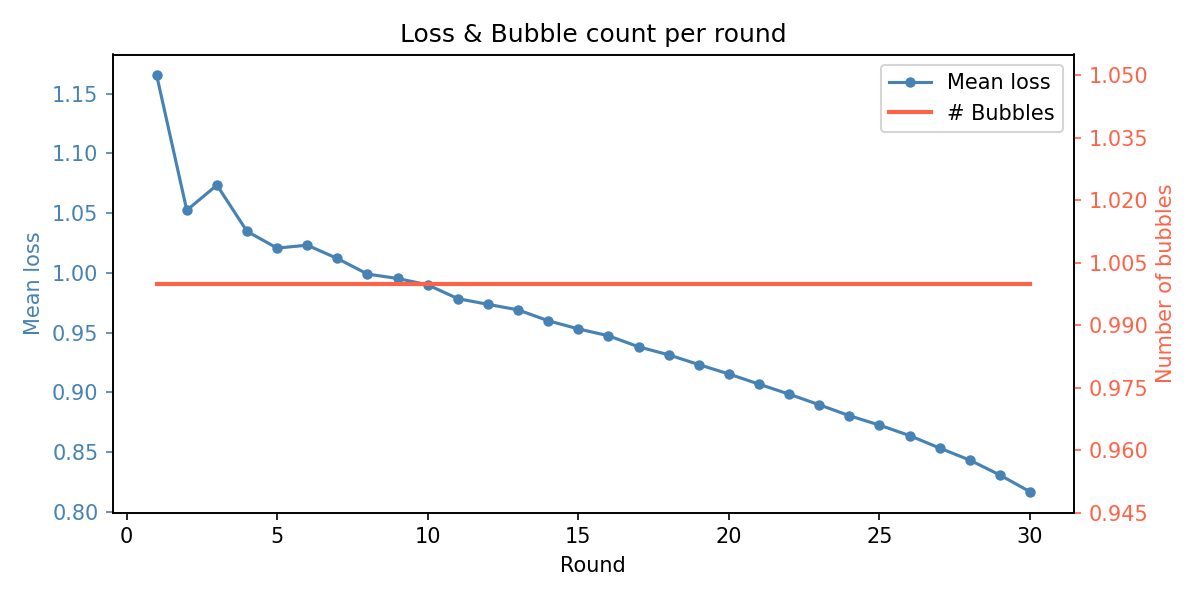
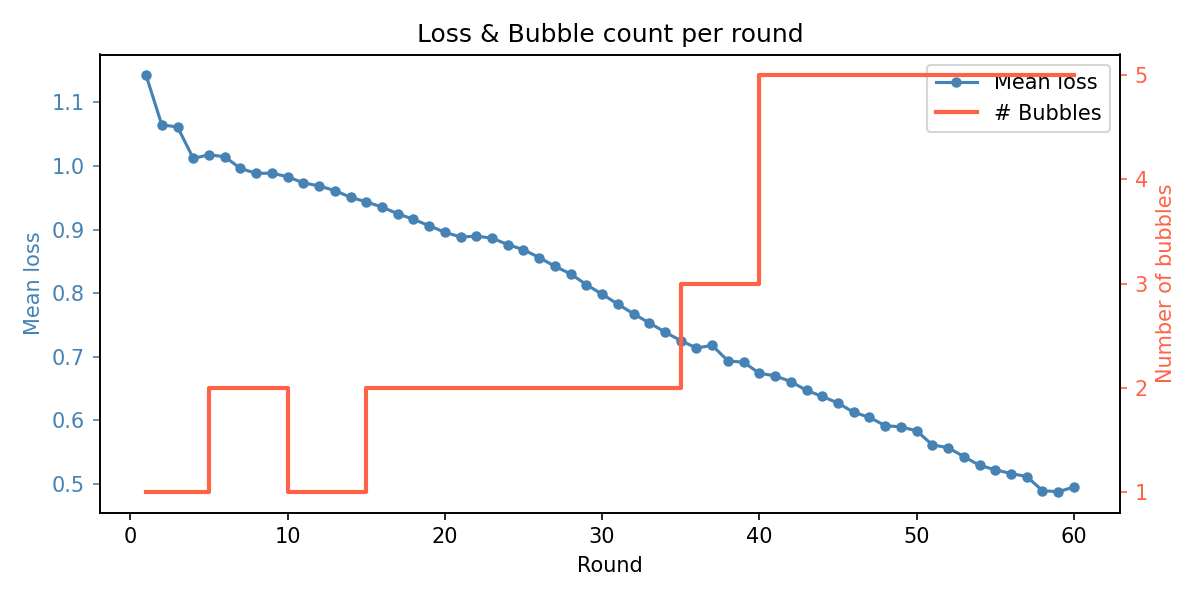
constractive learning

diff --git a/bubble_manager.py b/bubble_manager.py
@@ -87,14 +87,18 @@ class BubbleManager:
 
         self.bubbles = {bid: clients for bid, clients in new_bubbles.items() if clients}
 
-    def split_bubbles(self, h_subject):
-        """バブル内の最大コサイン距離が split_threshold を超えたら2分割"""
+    def split_bubbles(self, h_subject, min_size=1):
+        """バブル内の最大コサイン距離が split_threshold を超えたら2分割
+
+        min_size: 分割後の各グループの最小メンバー数．
+                  どちらかのグループが min_size 未満になる場合は分割しない．
+        """
         new_bubbles = {}
         new_assignments = {}
 
         for bid, clients in self.bubbles.items():
             active = [c for c in clients if c in h_subject]
-            if len(active) < 2:
+            if len(active) < 2 * min_size:
                 new_bubbles[bid] = clients
                 for c in clients:
                     new_assignments[c] = bid
@@ -109,14 +113,17 @@ class BubbleManager:
                     new_assignments[c] = bid
             else:
                 group_a, group_b = self._bipartition(active, dist)
-                for group in (group_a, group_b):
-                    if not group:
-                        continue
-                    new_id = self._next_id
-                    self._next_id += 1
-                    new_bubbles[new_id] = set(group)
-                    for c in group:
-                        new_assignments[c] = new_id
+                if len(group_a) < min_size or len(group_b) < min_size:
+                    new_bubbles[bid] = clients
+                    for c in clients:
+                        new_assignments[c] = bid
+                else:
+                    for group in (group_a, group_b):
+                        new_id = self._next_id
+                        self._next_id += 1
+                        new_bubbles[new_id] = set(group)
+                        for c in group:
+                            new_assignments[c] = new_id
 
         self.bubbles = new_bubbles
         self.client_to_bubble = new_assignments

diff --git a/train.py b/train.py
@@ -28,7 +28,7 @@ from bubble_manager import BubbleManager
 
 
 DATA_DIR = Path(__file__).parent / "data"
-N_ROUNDS = 30
+N_ROUNDS = 60
 LOCAL_EPOCHS = 2
 LR = 1e-3
 LAMBDA_CON = 0.5
@@ -36,8 +36,10 @@ TEMPERATURE = 0.1
 SPLIT_EVERY = 5
 MERGE_EVERY = 10
 REASSIGN_EVERY = 3
-SPLIT_THRESHOLD = 0.3
-MERGE_THRESHOLD = 0.05
+SPLIT_THRESHOLD = 0.12   # バブル内の最大コサイン距離がこれを超えたら分割
+MERGE_THRESHOLD = 0.05   # バブル間プロトタイプのコサイン距離がこれ以下なら統合
+ANNEALING_RATE = 1.15    # 分割のたびに閾値を拡大（過分割を抑制）
+MIN_SPLIT_SIZE = 5       # 分割後の最小バブルサイズ
 
 
 def get_subject_ids():
@@ -81,6 +83,7 @@ def load_all_tensors(subject_datasets, device):
             "labels": torch.stack([torch.stack(acc_list), torch.stack(rt_list)], dim=1).to(device),
         }
     return data
+
 
 
 @torch.no_grad()
@@ -224,6 +227,9 @@ def run(subject_datasets, client_ids, label_stats, results_dir,
     results_dir.mkdir(parents=True, exist_ok=True)
     device = get_device()
 
+    torch.manual_seed(42)
+    np.random.seed(42)
+
     all_data = load_all_tensors(subject_datasets, device)
     model = ClientModel().to(device)
     optimizer = torch.optim.Adam(model.parameters(), lr=lr)
@@ -289,12 +295,13 @@ def run(subject_datasets, client_ids, label_stats, results_dir,
 
         if (round_idx + 1) % SPLIT_EVERY == 0:
             before = server.n_bubbles
-            server.split_bubbles(h_subject)
+            server.split_bubbles(h_subject, min_size=MIN_SPLIT_SIZE)
             after = server.n_bubbles
             if after > before:
                 n_splits += after - before
+            server.split_threshold *= ANNEALING_RATE
             if verbose:
-                print(f"  [Split] {before} → {after} bubbles (threshold={split_threshold:.3f})")
+                print(f"  [Split] {before} → {after} bubbles (threshold={server.split_threshold/ANNEALING_RATE:.3f}→{server.split_threshold:.3f})")
 
         if (round_idx + 1) % MERGE_EVERY == 0:
             before = server.n_bubbles
